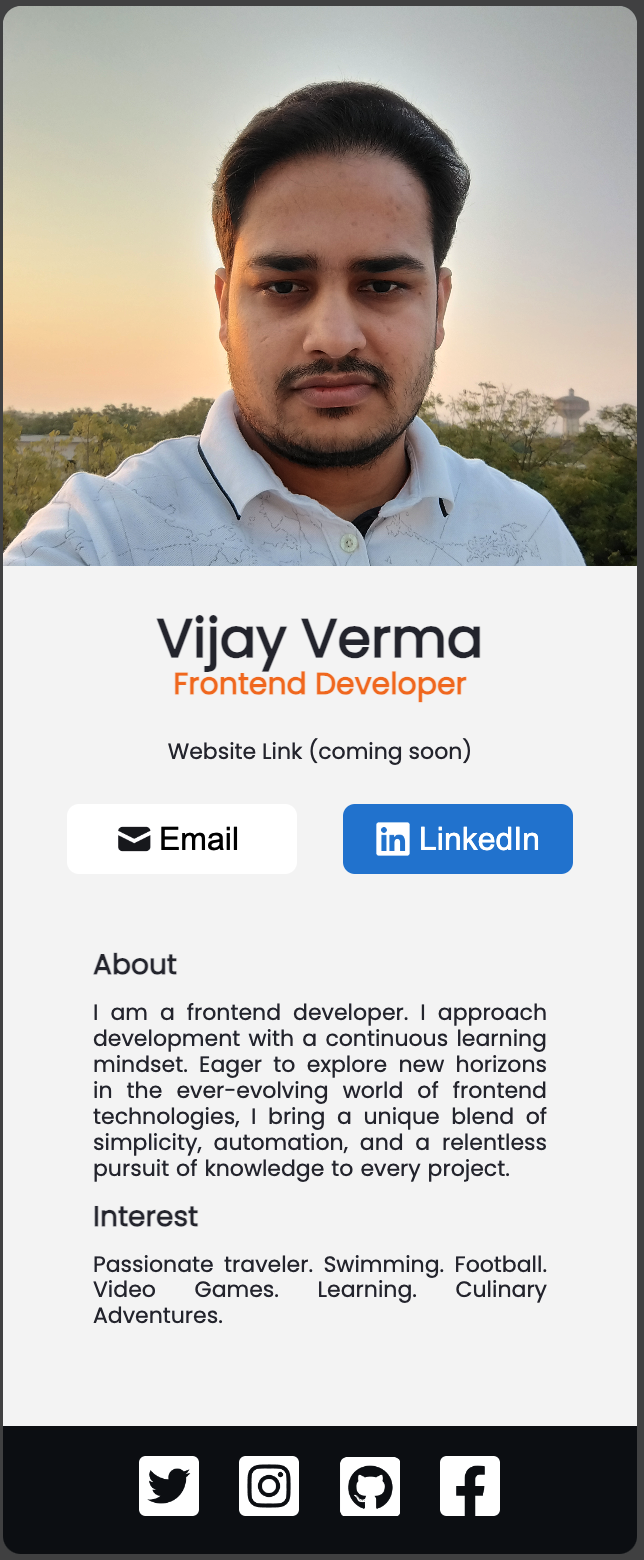
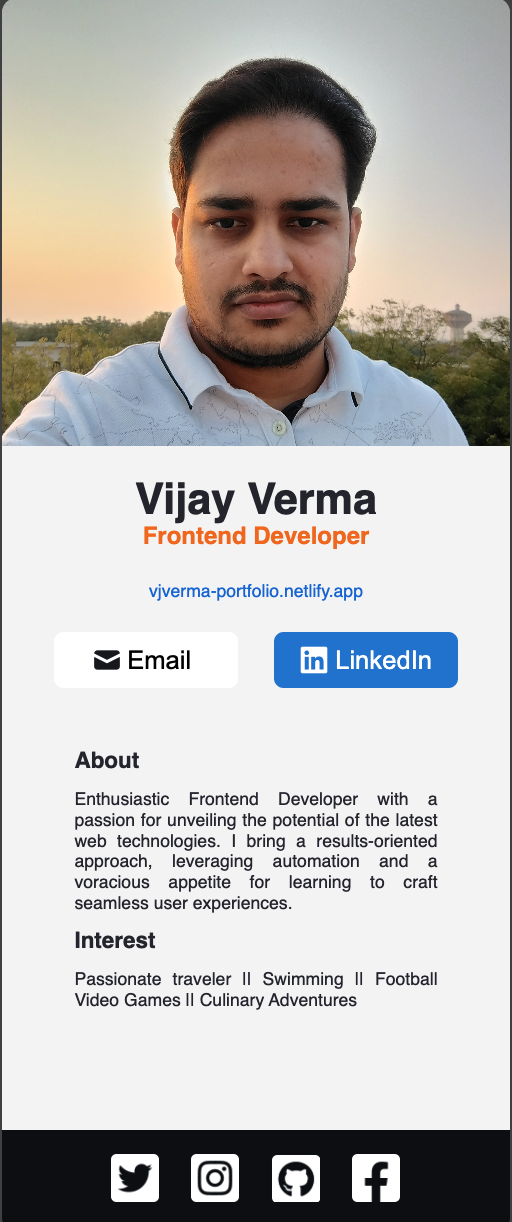
Added website URL

diff --git a/src/App.css b/src/App.css
@@ -117,12 +117,7 @@ nav.light .toggle{
   transition:all 0.3s ease-in-out;
 }
 
-
-
 /* toggle switch on click */
-
-
-
 .about{
 width: 100%;
 height: 30vh;
@@ -171,8 +166,8 @@ height: 30vh;
 
 .project-img{
   width: 100%;
-  height: 100%;
-  object-fit:fill;
+  /* height: 100%; */
+  /* object-fit:fill; */
   border-radius: 12px;
 }
 
@@ -264,33 +259,29 @@ margin:auto;
 /* Certificate Component */
 
 .certificate{
-  margin:55px auto;  
-  width: 75%;
-  height:90vh;
+  width:85%;
+  height:auto;
+  padding: 5% 0 5% 0;
+  margin: 0 auto 10% auto;
   background-image: url('https://cms.jibecdn.com/prod/cvent/assets/LP-SKU-D1-IMG-BG-en-us-1654520464862.jpg');
   border-radius: 10px;
   display: flex;
+  justify-content: center;
+  align-items: center;
 }
 
-.certificate-img{
-  height: 80%;
-  width: auto;
-  margin: auto;
-
+.cert-img{
+width: 72%;
+height: auto;
+object-fit: contain;
+margin:auto;
 }
 
-.cert-png{
-  height: 100%;
-  width: auto;
-  align-self: center;
-}
-.cert-png:hover{
+.cert-img:hover{
   transform: scale(1.2);
   transition:all 0.8s ease-in-out;
-}
+} 
  
-
-
 
 /* Footer Css */
 .footer{
@@ -346,7 +337,6 @@ a{
   color:black;
 }
 
-
 .fa-react:hover{
   color:#61DBFB;
 }
@@ -371,12 +361,9 @@ a{
   text-align:center;
 }
 
-
-
 .about-name{
   font-size: clamp(0.5rem, 1rem + 3.67vw, 3.5rem);
   letter-spacing: 4px;
-  
 }
 
 .about-paragraph{
@@ -384,7 +371,6 @@ a{
   line-height: 1.8;
   padding-bottom:15vh;
   padding-top:4vh;
-
 }
 
 .about-btn{
@@ -403,9 +389,7 @@ a{
   transform: translateY(-5px);
   transition:all 0.5s ease-in-out;
   scale:1.1
-
 }
-
 /* Contact component */
 .contact {
   width: 100%;
@@ -427,7 +411,6 @@ a{
   padding-top:4vh;
 
 }
-
 
 .logo-container {
   display: flex;
@@ -462,9 +445,19 @@ a > h1{
 }
 
 
+
 @media  (width < 800px){
-.menu-contianer{
-display: none;
+
+
+.profile-name{
+  display:none;
+}
+
+.homepage{
+  display:none;
+}
+.contactdetail{
+  display:none;
 }
 
 .cert-png{
@@ -498,6 +491,40 @@ display: none;
   grid-template: repeat(6, 5vh)/ repeat(2, 1fr);
   grid-gap:10vh 8vh; 
 }
+.profile-container{
+  transform: scale(0.7);
+}
+.menu-list{
+  padding-left: 20px;
+}
+
+.navbar-container{
+  justify-content: center;
+}
+.menu-contianer{
+  flex:9;
+}
+.menu-list-items{
+  margin-right: 10px;
+}
+.logo-container{
+  transform: scale(0.9);
+  flex:2;
+  padding-left: 15px;
+  /* display: none; */
+}
+.project{
+  display: block;
+}
+
+
+.menu-list-items{
+  font-size: 1rem;
+}
+
+.navbar-container{
+  padding:0%;
+}
 
 .certificate{
   height:auto;
@@ -527,12 +554,11 @@ display: none;
 
 }
 
-.fa-html5 {
-/* color: #F06529; */
-color: transparent; 
-background-clip: text;
+.fa-html5 { 
+ color: #F06529; 
+/color: transparent; 
+background-clip: text; 
 background-image: linear-gradient(to right,#E34C26 50%, #F06529 50%);
-
 }
 
 .fa-react{
@@ -549,7 +575,7 @@ background-image: linear-gradient(to right,#E34C26 50%, #F06529 50%);
 .fa-css3-alt{
   color:transparent;
   background-clip:text;
-  background-image:linear-gradient(to right,#264de4 50%, #2965f1 50%);
+   background-image:linear-gradient(to right,#264de4 50%, #2965f1 50%);
 }
 
 .fa-file-excel{
@@ -561,23 +587,17 @@ background-image: linear-gradient(to right,#E34C26 50%, #F06529 50%);
   font-size:12vh;
 }
 
-.skill.icon:hover{
-  scale:(1.2);
-}
-
-
-.tri{
-  width:10vw;
-  height: auto;
-}
-
-
-
 a{
   color:Black;
 }
 
 footer.light .footer{
   background-color:#a0a2a6;
+}
+
+
+.hamburger{
+  color:white;
+  display:none;
 }
 

diff --git a/src/components/navbar.jsx b/src/components/navbar.jsx
@@ -14,16 +14,16 @@ export default function Navbar(props) {
                     <div className="logo-container">
                         <Link className="logodis" to="/">
                             <img className="profile-img" src="images/pic.jpg" alt="error" />
-                            <h1>Vijay Verma</h1>
+                            <h1 className="profile-name">Vijay</h1>
                         </Link>
                     </div>
                     <div className="menu-contianer">
                        <ul className="menu-list">
                          <Link to="/">
-                            <li className="menu-list-items">Home</li>
+                            <li className="menu-list-items homepage">Home</li>
                         </Link>
                         <Link to="/projects">
-                             <li className="menu-list-items">Project</li>
+                             <li className="menu-list-items project">Project</li>
                         </Link>
                         <Link to="/certificate">
                             <li className="menu-list-items">Certification</li>
@@ -32,7 +32,7 @@ export default function Navbar(props) {
                             <li className="menu-list-items">Skills</li>
                         </Link>
                         <Link to="/contact">
-                            <li className="menu-list-items">Contact</li>
+                            <li className="menu-list-items contactdetail">Contact</li>
                         </Link>
                        </ul>
                     </div>
@@ -43,9 +43,10 @@ export default function Navbar(props) {
                             <i class="fa-solid fa-sun toggle-icon"></i>
                             <div className="toggle-ball"></div>
                         </div>
+                </div>
+                        <div className="hamburger">vjv</div>
                         
                     </div>
-                </div>
                 
             </div>
             </nav>

diff --git a/src/data.js b/src/data.js
@@ -54,19 +54,23 @@ export default [
         id:6,
         certificate:1,
         photo:"responsive.png",
+        certificateurl:"https://www.freecodecamp.org/certification/VIJAYVERMA/responsive-web-design",
     },
     {   id:7,
         certificate:2,
         photo:"dsa.png",
+        certificateurl:"https://www.freecodecamp.org/certification/VIJAYVERMA/javascript-algorithms-and-data-structures",
     },
     {   id:8,
         certificate:3,
         photo:"frontend.png",
+        certificateurl:"https://www.freecodecamp.org/certification/VIJAYVERMA/front-end-development-libraries",
     },
     {
         id:9,
         certificate:4,
         photo:"javascript.png",
+        certificateurl:"https://scrimba.com/certificate/u4xKQbt9/gjavascript",
     },
    
 ]

diff --git a/src/components/certification.jsx b/src/components/certification.jsx
@@ -1,15 +1,17 @@
+import { Link } from "react-router-dom"
+
 
 export default function Certification(props) {
     return (
         <>
         {props.certificate &&
         <div className="certificate">
-            <div className="certificate-img">
+         <Link to={props.certificateurl} target="_blank">
                 <img  
-                    className="cert-png"
+                    className="cert-img"
                     src={`/images/${props.photo}`} // don't use ./ if we are calling images from public directory
                     alt="Error in Uploading Image..." />
-            </div>
+            </Link>
         </div>
  } </>
     )
